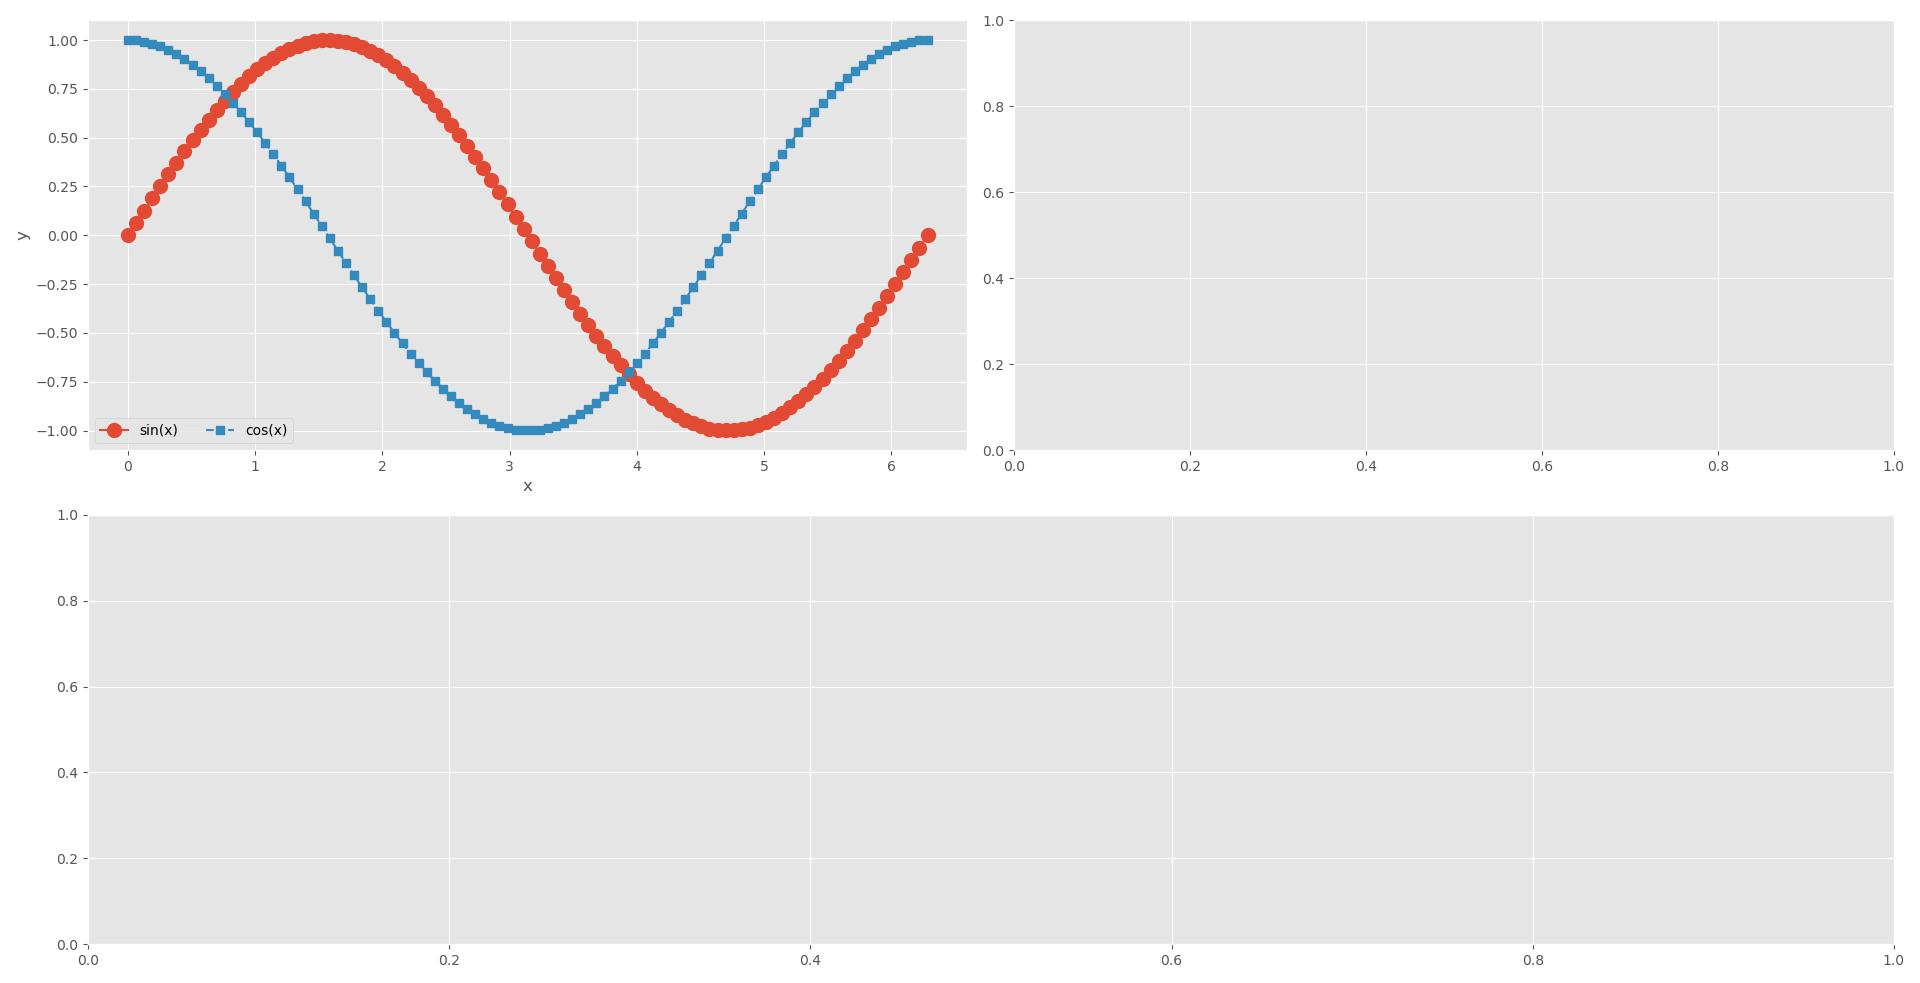
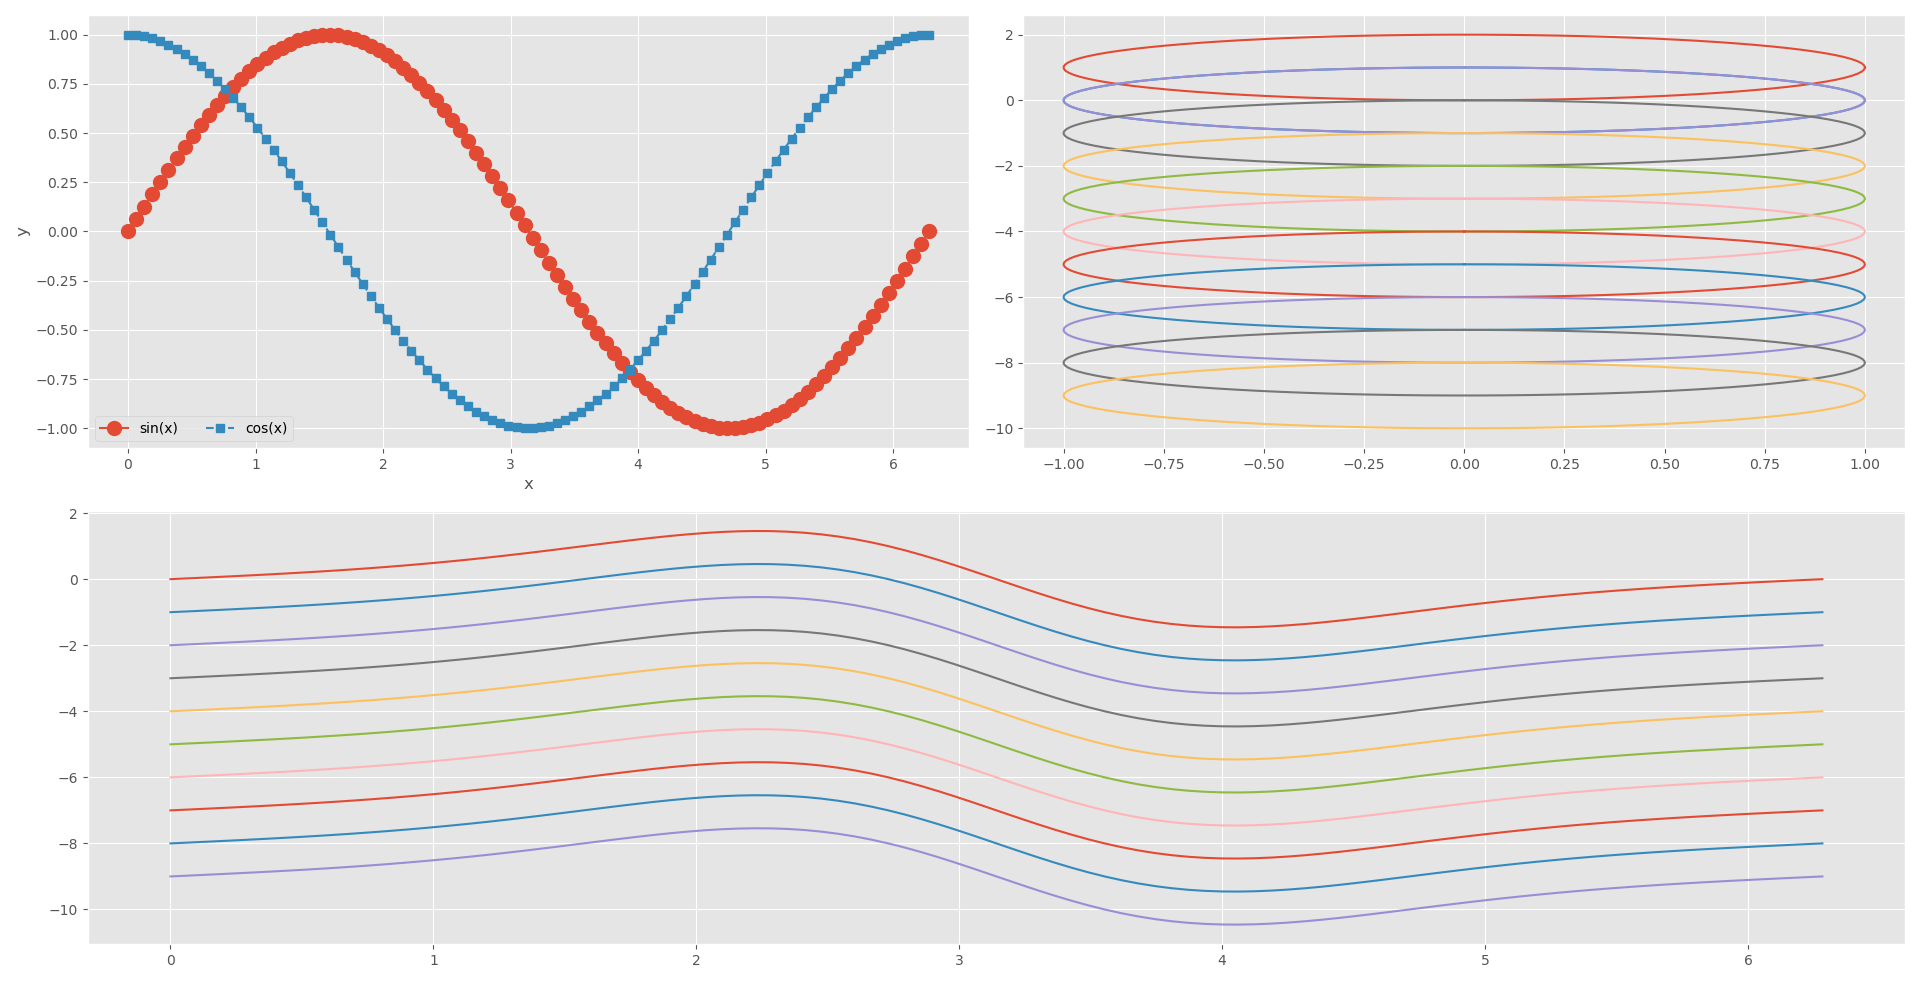
some stuff from lecture and assignment

diff --git a/descriptive_statistics/scipy_demo.py b/descriptive_statistics/scipy_demo.py
@@ -1,0 +1,29 @@
+import scipy as sp
+from scipy import stats
+import numpy as np
+import matplotlib.pyplot as plt
+
+data1 = sp.randn(100)   #generate 100 random number
+
+print(sp.median(data1))
+print(stats.describe(data1))
+print(stats.skew(data1))
+
+x = stats.uniform(0, 15)
+x_samples = x.rvs(2000)
+
+plt.hist(x_samples, density=1, bins=50)
+plt.plot(x_samples, x.pdf(x_samples), lw=5)
+
+plt.show()
+
+print(x.mean())
+print(x.std())
+
+x = stats.norm(loc=0, scale=1)
+x_samples = x.rvs(50000)
+
+plt.hist(x_samples, density=1)
+plt.plot(np.linspace(-3, 3, 1000), x.pdf(np.linspace(-3, 3, 1000)))
+
+plt.show()

diff --git a/assignment/normal_distribution_baseball.py b/assignment/normal_distribution_baseball.py
@@ -1,0 +1,25 @@
+import numpy as np
+import matplotlib.pyplot as plt
+
+durations = np.random.uniform(447, 521+1, 1000)
+
+mean = np.mean(durations)
+sd = np.std(durations)
+
+print(durations)
+#A
+print("Mean:", mean)
+print("Standard Deviation:", sd)
+
+#B
+range = 521-447
+height = 1/range
+range1 = 480-447
+range2 = 521-500
+probability = range1*height - range2*height
+print("Probability:", probability)
+
+#C
+n_bins = 10
+plt.hist(durations, n_bins, facecolor='blue', alpha=0.5)
+plt.show()

diff --git a/matplotlib/more_graphs.py b/matplotlib/more_graphs.py
@@ -1,0 +1,14 @@
+import numpy as np
+import matplotlib.pyplot as plt
+
+x = np.array([0, 1, 2, 3, 4])
+y = np.array([10, 21, 25, 37, 50])
+
+fig = plt.figure(1);
+plt.clf();
+ax = fig.add_subplot(1, 1, 1)
+ax.plot(x, y, "-o")
+ax2 = fig.add_axes([0.2, 0.6, 0.2, 0.2])    #Display additional axes that can overlap placed graph
+ax2.plot(np.sin(x), np.cos(x))
+
+plt.show()

diff --git a/matplotlib/matplotlib_demo.py b/matplotlib/matplotlib_demo.py
@@ -23,6 +23,14 @@ z = np.cos(x)
 ax1.plot(x, y, '-o', label = 'sin(x)', markersize = 10)
 ax1.plot(x, z, '--s', label = 'cos(x)')
 
+ax2.plot(z, y+1)
+ax2.plot(y, z)
+for i in range(10):
+    ax2.plot(y, z-i)
+
+for i in range(10):
+    ax3.plot(x, y*np.exp(-z)-i)
+
 #Set labels
 ax1.set_xlabel('x')
 ax1.set_ylabel('y')

diff --git a/assignment/histogram_chi.py b/assignment/histogram_chi.py
@@ -1,0 +1,14 @@
+import numpy as np
+import matplotlib.pyplot as plt
+
+n = 100
+x = np.random.chisquare(10, 1000)
+
+fx, bin = np.histogram(x)
+nbin = bin.size
+
+fig = plt.figure(1); plt.clf();
+ax = fig.add_subplot(1, 1, 1)
+ax.bar(bin[0 : nbin-1], fx)
+
+plt.show()

diff --git a/matplotlib/matplotlib_demo_yaya.py b/matplotlib/matplotlib_demo_yaya.py
@@ -1,0 +1,4 @@
+import matplotlib.pyplot as pylot
+import numpy as np
+
+x = np.linspace()
